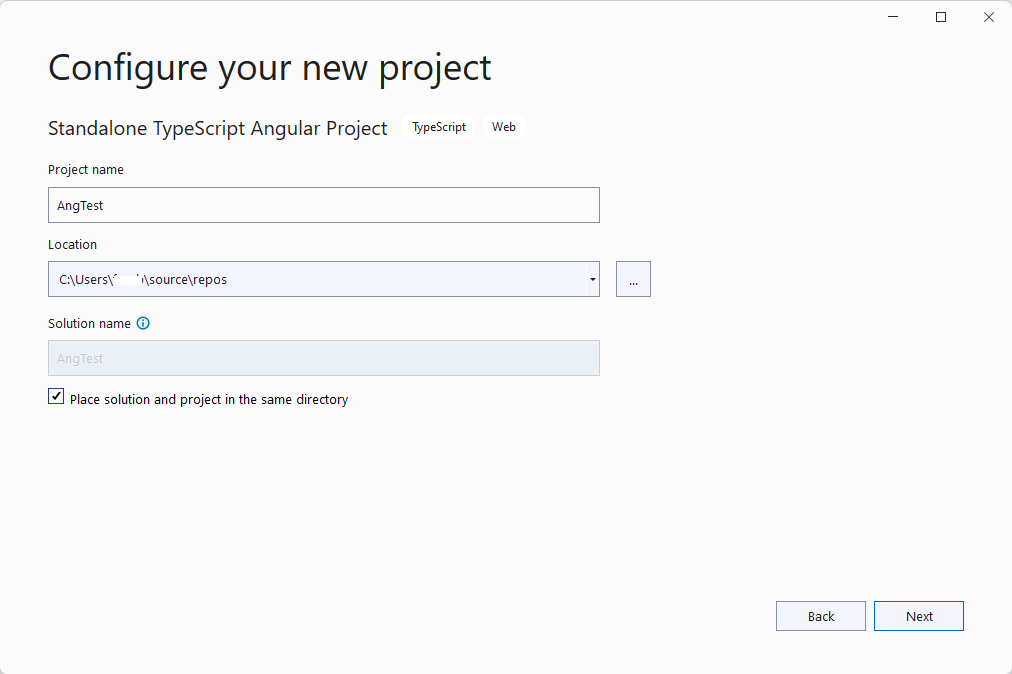
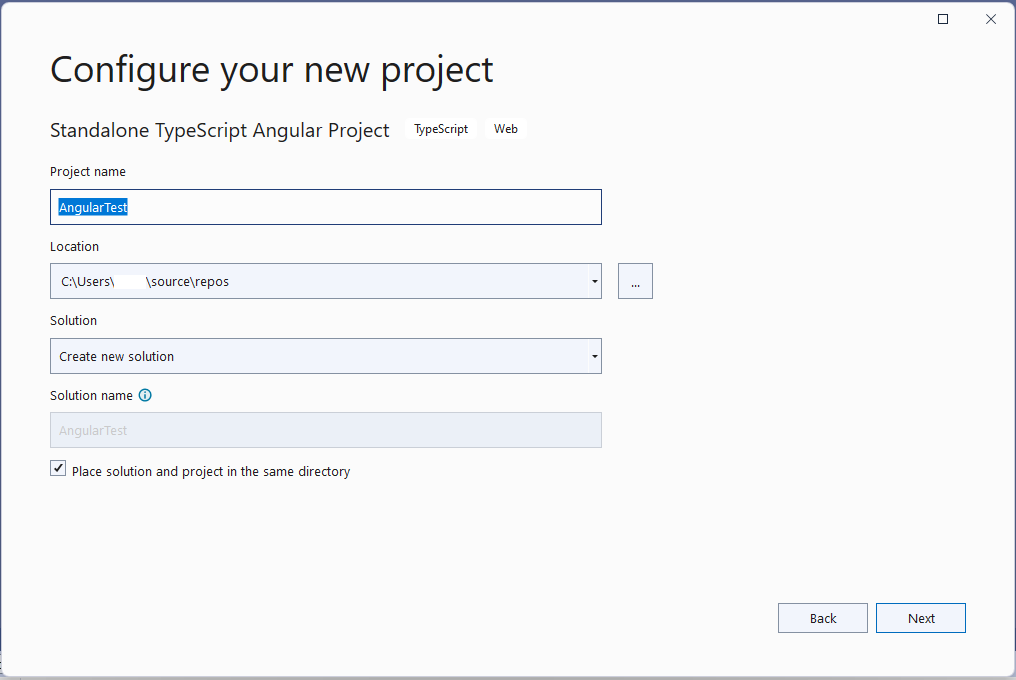
Proje anlatımını yeniden düzenledim.

diff --git a/AngularTest.html b/AngularTest.html
@@ -71,7 +71,7 @@
             kod dosyalarını düzenlemek için kullanacağım.
             <div class="row mt-2">
                 <div class="col-sm-8">
-                    <img src="images/Resim1_AngularProjesiOlusturmak.png" class="img-fluid" alt="Angular Projesi Olusturmak"/>
+                    <img src="images/Resim1_AngularProjesiOlusturmak.png" class="img-fluid" alt="Angular Projesi Oluşturmak"/>
                 </div>
                 <div class="col-sm-4">
                     Proje şablonu olarak, Web platformu kategorisinden
@@ -80,18 +80,41 @@
             </div>
         </div>
         <div class="myrow">
-		    <h2>Projeyi Çalıştırmak</h2>
+		    <h2>Proje Görünümü</h2>
             <div class="row mt-2">
                 <div class="col-sm-8">
-                    <img src="images/Resim2_AngularProjesiCalistirmak.png" class="img-fluid" alt="Angular Projesi Olusturmak"/>
+                    <img src="images/Resim2_AngularProjesiOlusturuldu.png" class="img-fluid" alt="Angular Projesi Oluşturuldu"/>
                 </div>
                 <div class="col-sm-4">
                     Proje Angular CLI ortamındaki gibi oluşturuldu.
-                    Projeyi çalıştırdığımda geri plandaki komut penceresinden
-                    "ng serve" komutu çalıştırılmış gibi sunucu devreye girdi
-                    ve Angular projelerinde gördüğümüz geçici şablon görüntülendi. 
+                    Tek fark, Visual Studio'nun oluşturduğu ek proje dosyalarıdır.
+                    Projeyle oluşturduğum uygulama bir web sayfasında görüntüleneceği için,
+                    çalıştırma ortamı olarak bilgisayarımdaki varsayılan web tarayıcısını seçtim.
                 </div>
             </div>
+        </div>
+        <div class="myrow">
+		    <h2>Projeyi Çalıştırmak</h2>
+            <div class="row mt-2">
+                <div class="col-sm-8">
+                    <img src="images/Resim3_AngularProjesiCalistirmak.png" class="img-fluid" alt="Angular Projesi Çalıştırmak"/>
+                </div>
+                <div class="col-sm-4">
+                    Visual Studio ortamından ayrılmadan,
+                    az önce uygulama başlatıcısı olarak tarayıcıyı seçtiğim
+                    düğmeyi tıklayarak uygulamayı çalıştırdım.
+                    Bir süre sonra geri planda açılan komut penceresinde
+                    "ng serve" komutunun çalıştırıldığını gördüm.
+                    Ekrana otomatik gelen tarayıcı penceresi
+                    localhost:4200 adresinden Angular uygulamasının
+                    geçici ilk şablonunu görüntüledi.
+                </div>
+            </div>
+            <br />
+            <i>Uygulamayı Visual Studio ortamında kapatınca
+               tarayıcı penceresi kapandı, ama komut penceresi açık kalmıştı.
+               Onu ayrıca kapatmam gerekti.
+            </i>
         </div>
     </div>
 </body>
